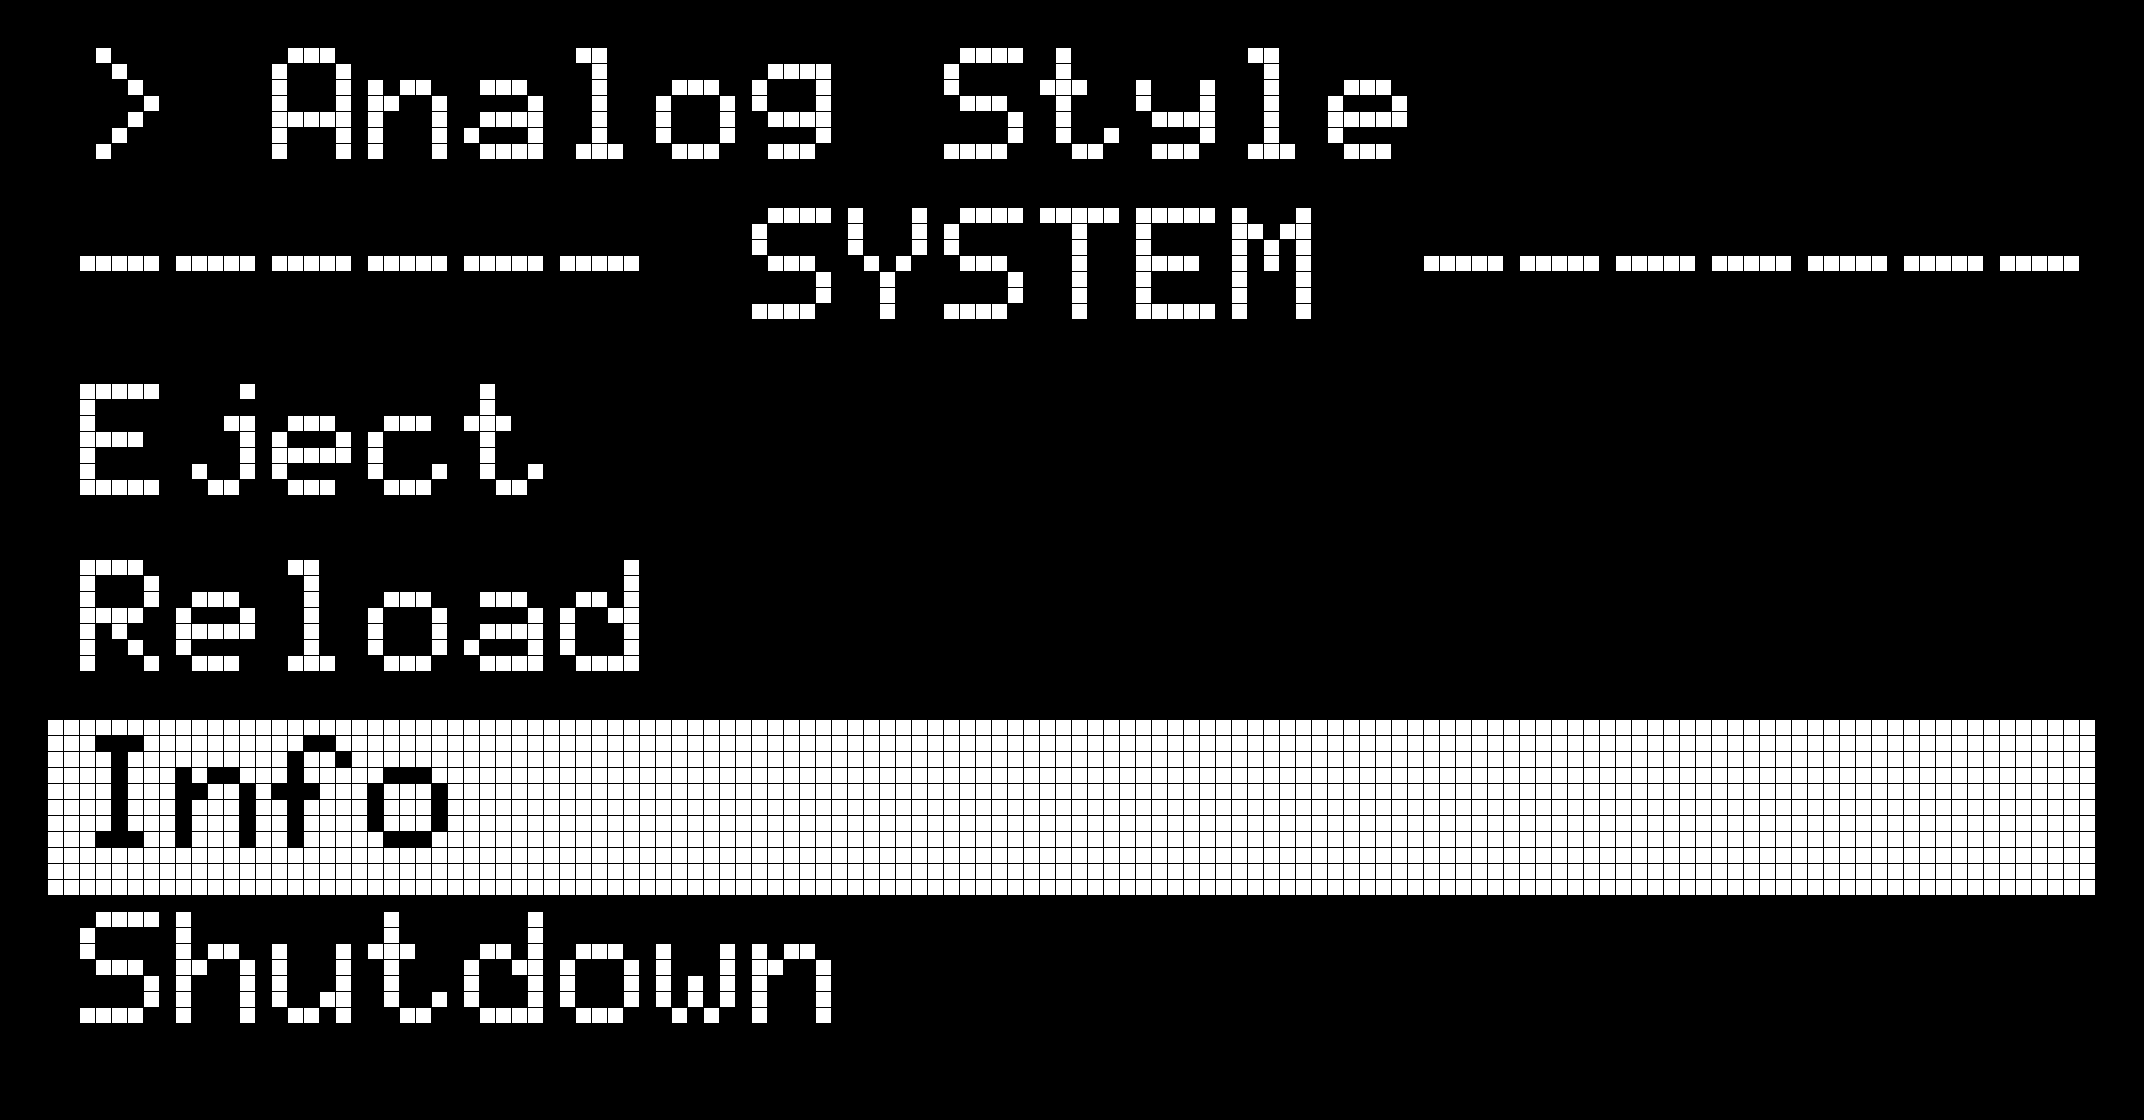
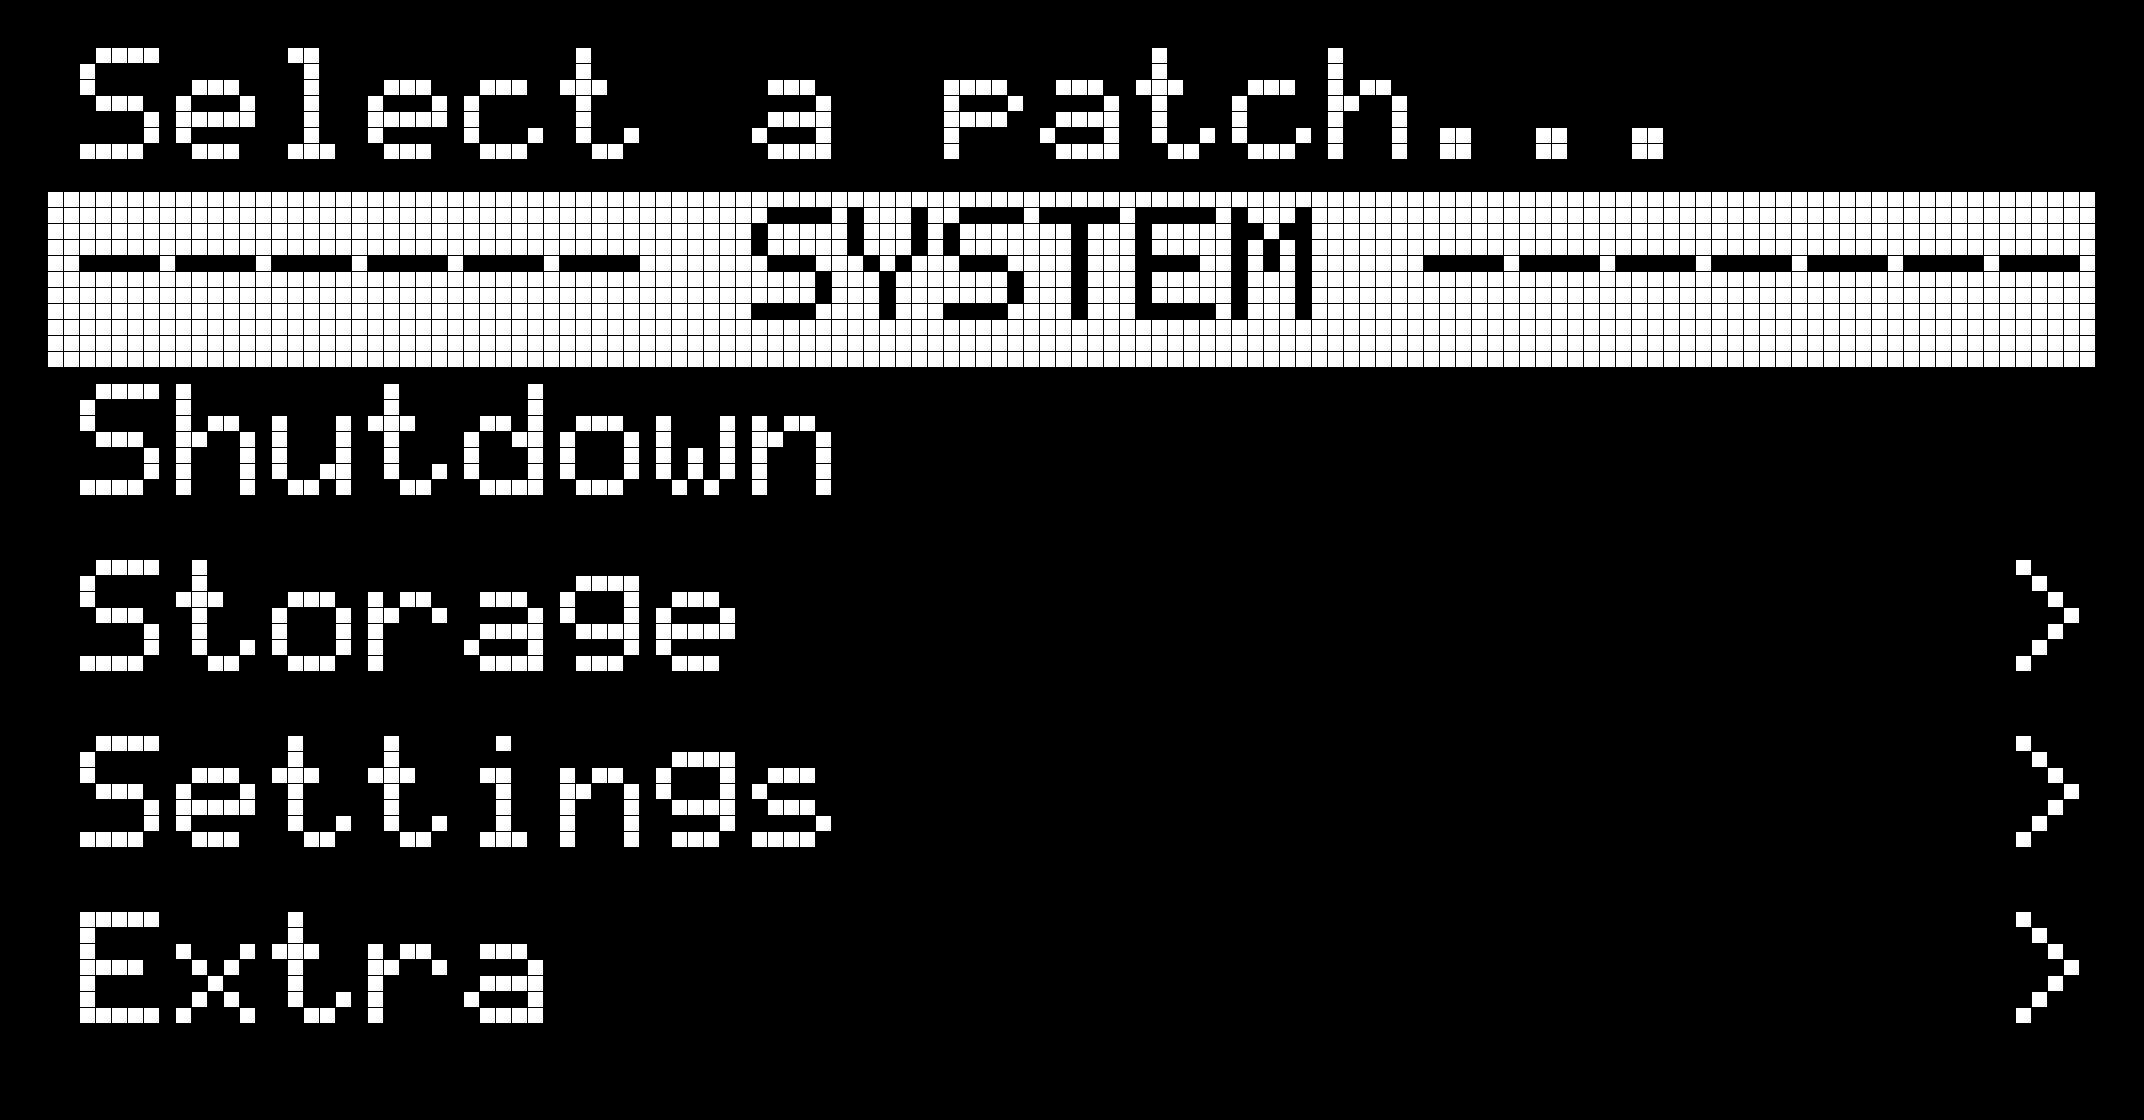
fixed menu section, added shutdown, added two pics

diff --git a/manual.md b/manual.md
@@ -283,21 +283,50 @@ At the top of the menu screen is the *system menu*. The top of this section is l
 
 To engage one of these options, follow the same procedure as loading a patch: select the desired option by turning the Selector and then press down on the top of the Selector. 
 
+#### Shutdown
+
+The safest way to power down Organelle is from the `System Menu`. The `Shutdown` option will always be at the top of this list. This runs a process that safely prepares Organelle to be powered off. After a few seconds, the process will complete and the display will notify you it is safe to unplug the power supply from the unit. To turn the unit back on, reconnect the power supply.
+
+> **Note:** The shutdown procedure can be activated from any part of the patch menu, as well as within any patch that does not use multiple pages. Press and hold the selector for three seconds. At that point, the screen will prompt you to either `HOLD to shutdown` or `release to abort`. This method is useful if you do not wish to navigate to the top of the `System Menu`.
+
+-	`Shutdown` safely prepares Organelle to be powered off. 
+
+-	`Storage` contains all options related to the USB drive, such as ejecting, reloading and saving.
+
+![](Ch3%20-%204p5%20storage%20menu.png)
+
+-	`Settings` accesses options for MIDI, WiFi, and Footswitch usage, as well as containing system information and Favourites.
+
+![](Ch3%20-%204p6%20settings%20menu.png)
+
+-	`Extra` is where to find additional functions for Organelle that are defined by the user. This could include VNC control or SerialOSC functions.
+
+
+#### Storage
+
 -   `Eject` safely unmounts an attached USB drive. The display will notify you when it is safe to unplug the USB drive. 
 
 -   `Reload` rescans the `Patches` folder of the attached USB drive and then refreshes Organelle's patches menu. (This also unloads the current patch so note that all sound will stop until you load another patch.) Any time that you connect a USB drive to Organelle while the unit is already powered up, you should run this function. Once the reload process has completed, you will be left in the patches menu in order to load an available patch. 
+
+-   `Save` stores the current parameter settings with the open patch, essentially printing the values that have been set with the knobs. Whenever this patch is reloaded, all of your previous parameters will be recalled regardless of the current knob positions. Once a knob is moved, however, its physical position will regain control. 
+
+-   `Save New` duplicates the current patch and all of its associated files into a new patch folder and then loads that patch. The new patch also stores the parameter values of the knobs, just as the `Save` function does. When recording sound to a sampler/recorder patch, `Save New` will save the new sound(s) to the new patch and preserve the default sound(s) in the original patch. The new patch takes the name of the original patch and adds an incremented number. So triggering `Save New` while a patch named `Basic Poly` is loaded would create (and load) `Basic Poly 2`. And selecting `Save New` again with either `Basic Poly` or `Basic Poly 2` loaded would spawn `Basic Poly 3`. 
+
+#### Settings
+
+-	`MIDI Setup` See section [3.2: Organelle's Default MIDI Setup](#3point2) for more information on using MIDI.
+
+- 	`WiFi Setup` will list the network defined on the USB drive in the `wifi.txt` text file. Click on the name of your network to join. Other options include `Start Web server`, which allows access an external computer's browser to edit files on the Organelle. `Start AP` opens a portal for other instruments to join a synced network with Organelle (over Link). `Turn Wifi Off` severs Organelle's connections with other networks or WiFi-enabled devices. See [Section 5](#5) for more on using WiFi with Organelle.
 
 -   `Info` displays the *system information screen*, which presents information about the current hardware/software situation. Don't forget to use the *Selector* to scroll down to view more information below the `IP` address. For an explanation of the information displayed on this screen see [6.1: Inside Information](#6).
 
 ![](Ch3%20-%205%20system%20info%20screen.png) 
 
--   `Shutdown` safely prepares Organelle to be powered off. The display will notify you when it is safe to unplug the power supply from the unit. (Once the unit has been shut down, you must remove and reconnect power to start using it again.)
+-	`Pedal Setup` will help you configure your expression pedal or footswitch function.
 
--   `MIDI Channel` sets the default channel for outgoing MIDI messages and the expected channel for incoming MIDI messages. (After selecting this option and pressing down the Selector encoder, another screen allows the setting of the `MIDI Channel` with the Selector. Pressing the Selector again returns to the system menu.) 
+-	`Info` examines what is happening inside Organelle. See [6.1: Inside Information](#6) for more info.
 
--   `Save` stores the current parameter settings with the open patch, essentially printing the values that have been set with the knobs. Whenever this patch is reloaded, all of your previous parameters will be recalled regardless of the current knob positions. Once a knob is moved, however, its physical position will regain control. 
-
--   `Save New` duplicates the current patch and all of its associated files into a new patch folder and then loads that patch. The new patch also stores the parameter values of the knobs, just as the `Save` function does. When recording sound to a sampler/recorder patch, `Save New` will save the new sound(s) to the new patch and preserve the default sound(s) in the original patch. The new patch takes the name of the original patch and adds an incremented number. So triggering `Save New` while a patch named `Basic Poly` is loaded would create (and load) `Basic Poly 2`. And selecting `Save New` again with either `Basic Poly` or `Basic Poly 2` loaded would spawn `Basic Poly 3`. 
+-	`Show Favourites` will present you with any patches you have saved as Favourites. See [6.2: Choosing Favourites](#6point2) for more info.
 
 -   *Custom scripts* can also appear at the end of this menu. 
 
@@ -570,7 +599,7 @@ Taken together, these basic functions make it easy for you to organize and sort 
 
 Here are a couple of other procedures and facts to bear in mind while working with USB on Organelle. 
 
--   **To safely unmount a connected USB disk:** from the patch     information screen, turn the Selector knob to call up the menu     screen. Turn the Selector to the left (upward) to move to the menu     screen's `SYSTEM` section, and select and engage the `Eject`     function. The display will notify you when it is safe to unplug your USB drive. 
+-   **To safely unmount a connected USB disk:** from the patch information screen, turn the Selector knob to call up the menu screen. Turn the Selector to the left (upward) to move to the menu screen's `SYSTEM` section, and select and engage the `Eject` function. The display will notify you when it is safe to unplug your USB drive. 
 
 -   **USB devices are not immediately hot-swappable.** While Organelle does not need to be power cycled when a USB device is removed, any device removal will trigger Organelle to quit the running instance of Pure Data and close out the current patch. The display will notify you when this has happened (including after you disconnect a safely ejected USB drive). You can then use the Selector to load or reload your patch from the menu screen's patches section. 
 
